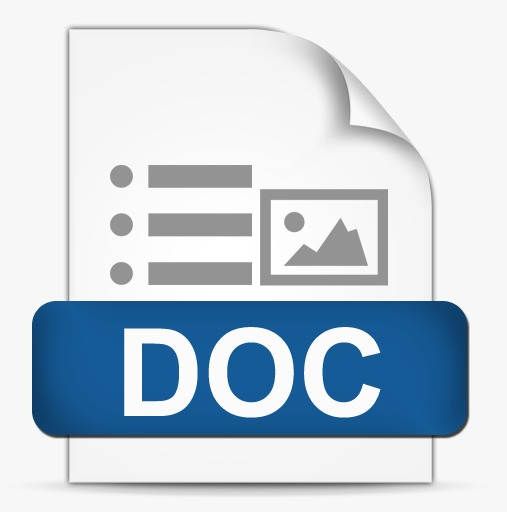
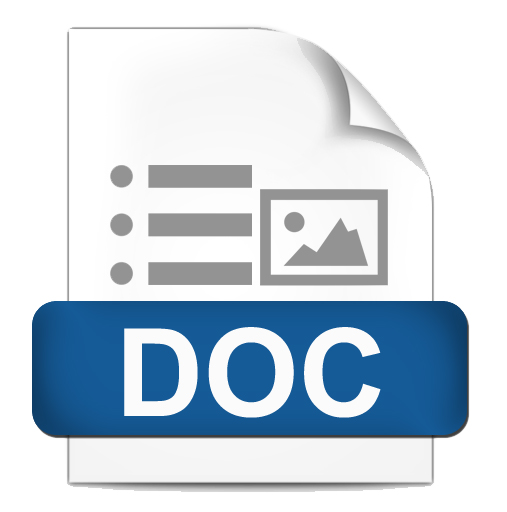
iconlar deyiwildi

diff --git a/books.html b/books.html
@@ -126,7 +126,7 @@
                                     </div>
                                     <div class="rubrikaContentBooksPdf">
                                         <a href="#">
-                                            <img src="img/iconPDF.png" alt="">
+                                            <img src="img/iconPDF.jpg" alt="">
                                         </a>
 
                                     </div>
@@ -151,7 +151,7 @@
                                     </div>
                                     <div class="rubrikaContentBooksPdf">
                                         <a href="#">
-                                            <img src="img/iconDOC.png" alt="">
+                                            <img src="img/iconDOC.jpg" alt="">
                                         </a>
                                     </div>
                                 </div>

diff --git a/css/index.css b/css/index.css
@@ -1879,6 +1879,8 @@ body {
     .books .rubrikaContentCategories .rubrikaContentBooks .rubrikaContentBooksPdf {
       float: right;
       display: inline-block; }
+      .books .rubrikaContentCategories .rubrikaContentBooks .rubrikaContentBooksPdf img {
+        width: 35px; }
       .books .rubrikaContentCategories .rubrikaContentBooks .rubrikaContentBooksPdf i {
         font-size: 20pt; }
     .books .rubrikaContentCategories .rubrikaContentBooksCategory {
@@ -1983,6 +1985,8 @@ body {
         font-weight: bold; }
     .ideologiya .rubrikaContentCategories .rubrikaContentBooks .rubrikaContentBooksPdf {
       display: inline-block; }
+      .ideologiya .rubrikaContentCategories .rubrikaContentBooks .rubrikaContentBooksPdf img {
+        width: 35px; }
       .ideologiya .rubrikaContentCategories .rubrikaContentBooks .rubrikaContentBooksPdf i {
         padding-left: 10px;
         font-size: 20pt; }

diff --git a/sass/_books.scss b/sass/_books.scss
@@ -40,6 +40,9 @@
             .rubrikaContentBooksPdf {
                 float: right;
                 display: inline-block;
+                img {
+                    width: 35px;
+                }
                 i {
                     font-size: 20pt;
                 }
@@ -155,6 +158,9 @@
                 text-align: center !important;
                 float: none !important;
                 display: block !important;
+                
+                    
+                
             }
         }
     }

diff --git a/ideologiya.html b/ideologiya.html
@@ -124,7 +124,7 @@
                                 </div>
                                 <div class="rubrikaContentBooksPdf">
                                     <a href="#">
-                                        <img src="img/iconPDF.png" alt="">
+                                        <img src="img/iconPDF.jpg" alt="">
                                     </a>
                                 </div>
                                 

diff --git a/sass/_ideologiya.scss b/sass/_ideologiya.scss
@@ -23,6 +23,9 @@
             }
             .rubrikaContentBooksPdf {
                 display: inline-block;
+                img {
+                    width: 35px;
+                }
                 i {
                     padding-left: 10px;
                     font-size: 20pt;
